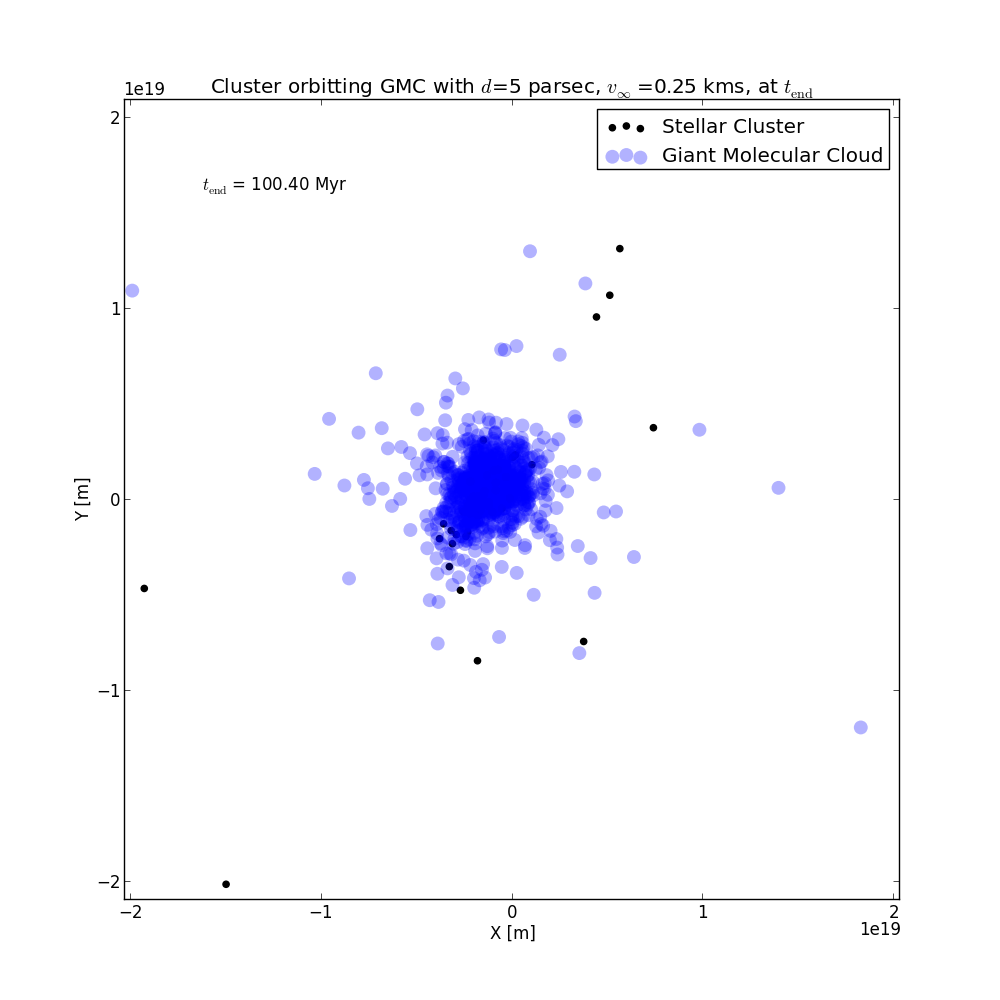
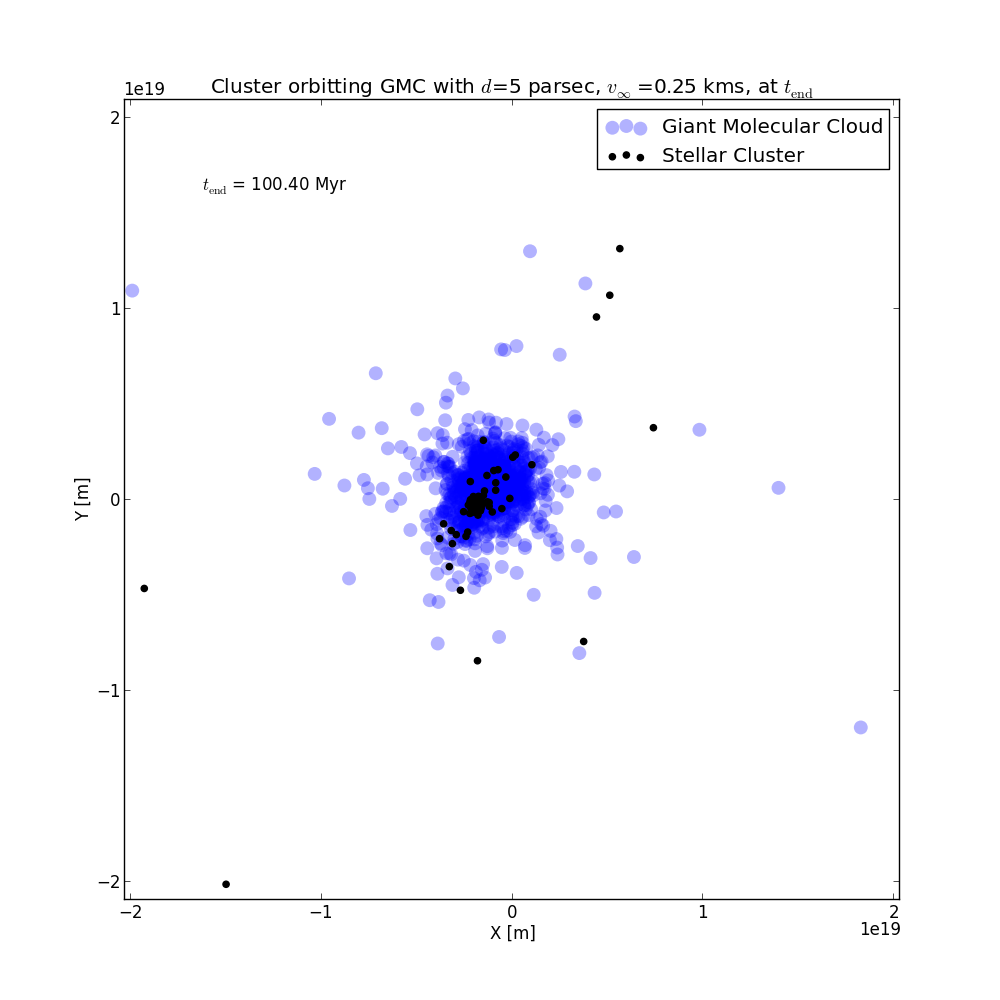
aanname niet te vangen cluster toegevoegd, cluster in gaswolk zichtbaarder gemaakt

Changed region(s): [[0.589, 0.124, 0.899, 0.186], [0.465, 0.465, 0.527, 0.527], [0.434, 0.527, 0.465, 0.558]]

diff --git a/reports/CA_Hydro_TLRH_s1603221_SS_s1617451_report_aa.tex b/reports/CA_Hydro_TLRH_s1603221_SS_s1617451_report_aa.tex
@@ -264,7 +264,7 @@ The parameter space is varied as following. The values of $v_\infty$, in unit km
     \caption{Using $v_\infty = 0.25$ km/s and $d = 5$ parsec yields a partially captured cluster by the cloud. It is not clear from this image if the cluster is fully captures. This should be studied in greater detail prior to drawing conclusions.}\label{fig:v_25_d_5}
 \end{figure}
 
-The result in Fig.~\ref{fig:v_25_d_5} we find surprising. Our expectation is that the capture of the cluster by the GMC will not happen. Notice that this is merely a snapshot at one fixed point in time. The upper right stars seem to indicate that the cluster has been disrupted but it might not remain inside the GMC. This particular case requires a more elaborate analysis in order to conclude whether or not it stays inside the GMC. The reason for this expectation is REPLACE
+The result in Fig.~\ref{fig:v_25_d_5} we find surprising. Our expectation is that the capture of the cluster by the GMC will not happen. Notice that this is merely a snapshot at one fixed point in time. The upper right stars seem to indicate that the cluster has been disrupted but it might not remain inside the GMC. This particular case requires a more elaborate analysis in order to conclude whether or not it stays inside the GMC. The expectation is that when an object has a non-zero $v_\infty$ it will have a hyperbolic trajectory, i.e. it will not be captured. The $v_\infty$ being non-zero holds true for all the simulations we have run. However, the simulation is for a cluster of stars, where the hyperbolic trajectory is behaviour expected from a simple point mass interacting with another point mass.
 
 \section{Multiple GMCs} \label{sec:multiplegmc}
 Here we discuss the behaviour of the code when multiple molecular clouds are added to the system. This might be a more physically realistic setup. When a star cluster moves through its neighbourhood it may interact with not just one, but multiple gas clouds. To effectively simulate the cluster interacting with multiple distinct GMCs they need to be spaced far enough apart to not interact with each other. I.e. we do not want the GMCs to merge, otherwise the simulation is simulating a scenario where the cluster is still interacting with just one GMC, that just happens to be bigger. Ideally the cluster is really only interacting with one GMC in the simulation at a time. Adding the extra GMCs does add computational complexity. First of all the simulated time needs to be longer, because the time that the cluster is traveling in between the GMCs needs to be added; the simulation is not just simulating the time the cluster is actually interacting with a GMC anymore. This is dependent on the spacing in between GMCs, which is ideally large so that there is not too much interaction between GMCs. Making this distance too large however can blow up the simulation time.
